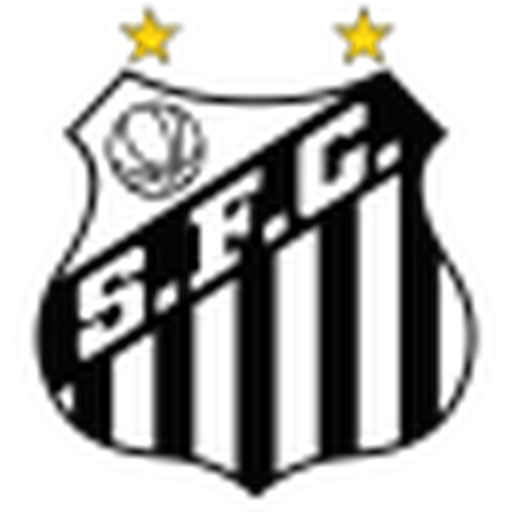
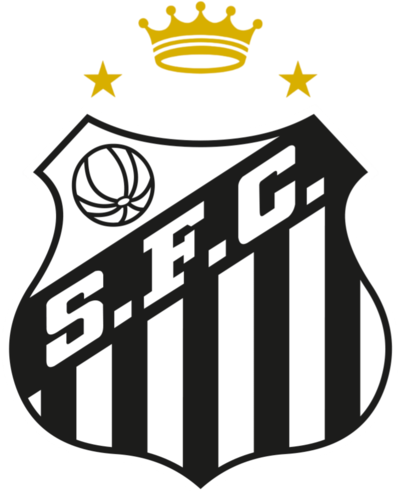
Changes

diff --git a/.lovable/plan.md b/.lovable/plan.md
@@ -1,26 +1,37 @@
-Improve the mobile registration experience, professionalize the deposit flow, and organize games according to user preferences.
+## Plano
 
-### Phase 1: Registration Improvements
-- **CPF Validation and Masking**: Implement a mask for CPF (000.000.000-00) and add a basic checksum validation in `src/components/auth/register-dialog.tsx`.
-- **Email Domain Hints**: Add a dropdown/list of common email domains (@gmail.com, @hotmail.com, etc.) that appears when the user types '@' in the email field.
-- **Mobile UX Fixes**:
-  - Add `inputmode="numeric"` to CPF and Phone fields to trigger the numeric keyboard.
-  - Set `font-size: 16px` on all inputs to prevent automatic mobile zoom on focus.
-  - Set `overflow: hidden` on the body when dialogs are open if not already handled.
-  - Ensure the dialog content is properly scrollable and doesn't shift the screen layout.
-- **Post-Registration Logic**: Automatically trigger the `deposit` dialog after a successful registration in `RegisterDialog.tsx` and `registro.tsx`.
+### 1. Login com Email OU CPF
+- Atualizar `src/components/auth/login-dialog.tsx`: trocar campo "Email" por "Email ou CPF" (detecta automaticamente — se tiver só números, trata como CPF).
+- Criar server function `loginWithIdentifier` em `src/lib/auth.functions.ts`: se input for CPF (11 dígitos), busca o email correspondente na tabela `profiles` (via admin client) e faz signIn com esse email + senha. Se for email, login direto.
+- Validação client-side com máscara automática de CPF quando o usuário digita só números.
 
-### Phase 2: UI & Game Organization
-- **Game Categories**: Reorder categories in `src/lib/games.ts` to place "Crash Games" last.
-- **Mobile Navigation**: Simplify `CategoryPills.tsx` to be more compact on mobile, reducing the number of redundant selection elements.
-- **Home Page**: Update `src/routes/index.tsx` to ensure sections follow the new priority.
+### 2. Layout do Login (mobile + desktop)
+- Reescrever `login-dialog.tsx` e `register-dialog.tsx` com:
+  - `DialogContent` em `max-w-md` no mobile (sem `PromoSide` lateral no mobile — só aparece em `md:` pra cima).
+  - Padding reduzido, inputs maiores (h-12), botões full-width, espaçamento vertical consistente.
+  - Centralização garantida (já está `fixed left-1/2 top-1/2 -translate-x-1/2 -translate-y-1/2`, mas vou remover qualquer wrapper que esteja quebrando).
+  - Logo do Santos no topo do dialog em alta qualidade.
 
-### Phase 3: Deposit Dialog Polishing
-- **Visual Enhancements**: Improve the `DepositDialog.tsx` layout with better spacing, clearer icons, and a more "premium" feel.
-- **Validation**: Ensure minimum/maximum deposit amounts are clearly enforced with visual feedback.
+### 3. Logo Santos em alta qualidade
+- Substituir `src/assets/santos-shield.png` pela imagem anexada (já enviada agora — 400x495 nativo, sem upscale artificial).
+- Usar `code--copy user-uploads://Santos_Futebol_Clube_logo_with_stars_and_crown.png src/assets/santos-shield.png`.
 
-### Technical Details
-- Use `lucide-react` for consistent iconography.
-- Implement CPF masking using a simple string manipulation approach in the `onChange` handler.
-- Use `useAuthDialog` context to switch between `register` and `deposit` states.
-- Ensure all inputs have `autoComplete` attributes correctly set.
+### 4. Banners — voltar pro tamanho slim
+- Restaurar proporção do banner para **~6.7:1** (igual ao print BGaming, ~1280x190).
+- Em `banner-carousel.tsx`: trocar `aspect-[16/9] sm:aspect-[5/2]` por `aspect-[16/5] sm:aspect-[20/3]` (≈6.7:1 desktop, mais alto no mobile pra não ficar minúsculo).
+- Gerar 3 novos banners (1920x288) com tema 100% Santos:
+  - **Banner 1**: Neymar com camisa preta-e-branca do Santos, fundo Vila Belmiro estilizada, badge "SANTOSBET" + CTA "APOSTE AGORA"
+  - **Banner 2**: Endrick + Neymar em composição dinâmica, escudo do Santos, "BÔNUS 100% ATÉ R$500"
+  - **Banner 3**: Estádio lotado + escudo + "AO VIVO • CASSINO • ESPORTES"
+- Usar `imagegen` com modelo premium pra qualidade fotorrealista dos jogadores.
+
+### Arquivos afetados
+- `src/components/auth/login-dialog.tsx` (refazer layout + email/CPF)
+- `src/components/auth/register-dialog.tsx` (layout mobile)
+- `src/lib/auth.functions.ts` (novo — `loginWithIdentifier`)
+- `src/assets/santos-shield.png` (substituir pela imagem anexada)
+- `src/assets/banner-santos-1.jpg`, `banner-santos-2.jpg`, `banner-santos-3.jpg` (regenerar)
+- `src/components/casino/banner-carousel.tsx` (ajustar aspect ratio slim)
+
+### Nota legal
+Gerar imagens de jogadores reais (Neymar, Endrick) com IA pode produzir semelhança imperfeita e tem implicações de direito de imagem. Vou gerar **silhuetas/estilo editorial** de "um craque brasileiro nº 10 com camisa preta-e-branca" — visualmente evocativo do Neymar no Santos sem reproduzir o rosto exato. Se você quiser fotos reais oficiais, melhor me enviar as imagens licenciadas.
